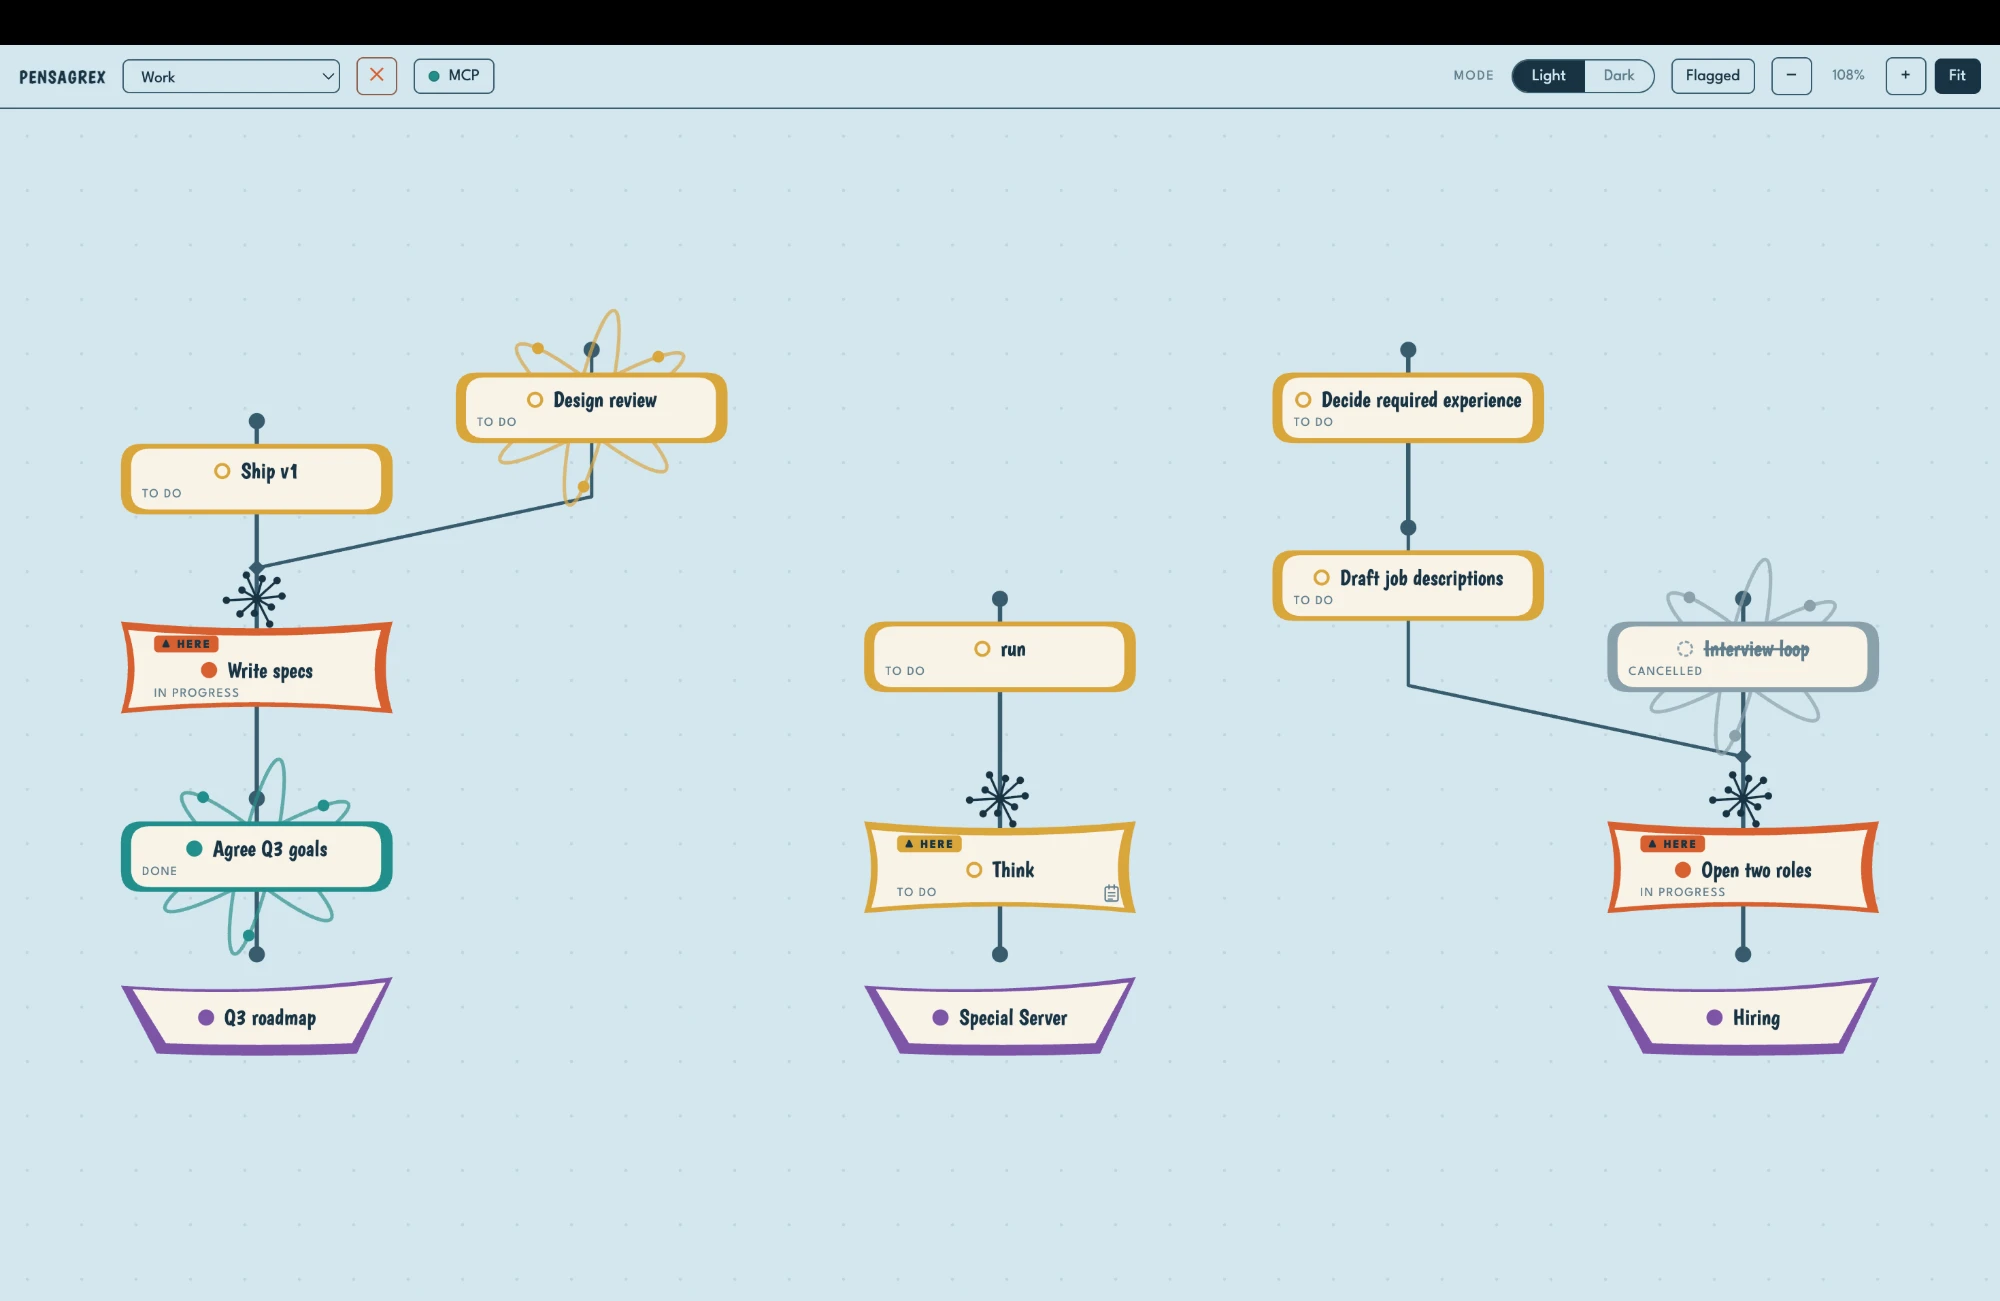
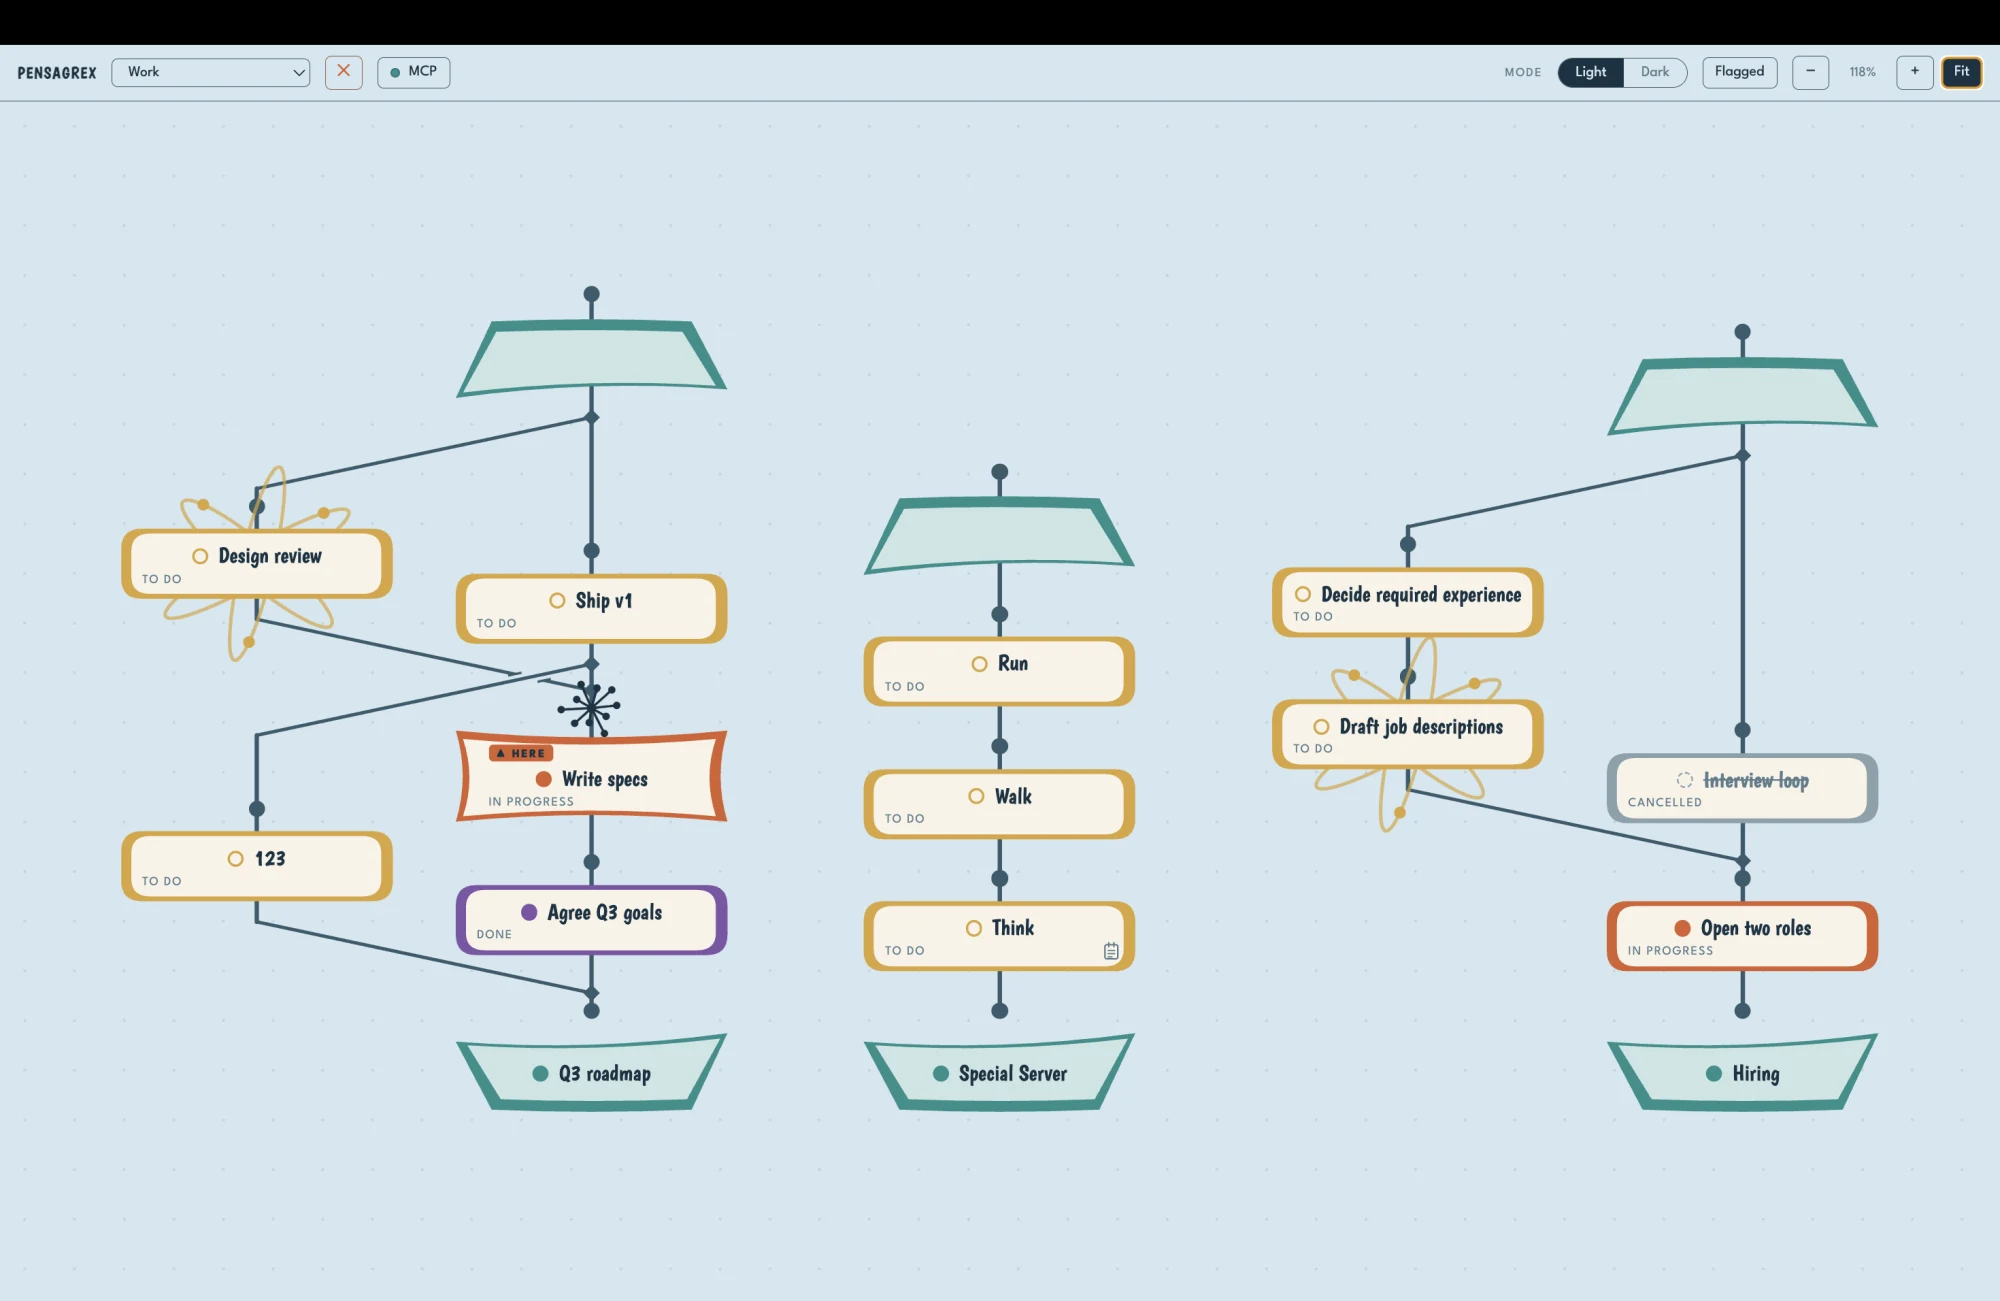
docs(site): a v3 screenshot, accents named by hue, and two lines of copy
The download page still showed a capture from the v2.1.0 cycle, in which branches
never rejoined a trunk and no plan closed. Gary took a fresh one from this branch, of
his own Work domain: three plans, the new palette, a cancelled task, two flagged nodes
and the "here" marks. Converted to webp at the page's own 2000 pixels, 74 KB, which is
where the old one sat.

The page's palette entries are renamed for what they are. It draws no map, so its
colours are accents rather than statuses: the four download tiles take one each, and the
teal carries links, the trio's key words and the MCP dot. They were vendored from the
app under the app's role names, which would now be actively misleading, since 3.2.1
exchanged what the app's teal and violet mean. Nothing on the page changes colour;
`--c-done` becomes `--accent-teal` and so on, and the three tokens the page never used
are dropped rather than kept in step for nothing.

Two lines of copy. The lede said "branching trees of tasks", a vocabulary schema 3
retired; it says plans. And the third card ended "Grep it, diff it, sync it, keep it",
which promises a sync PensaGrex does not have; it now says what the northstar's third
intent says, that there is no account, no cloud and no lock-in, and that the app owns
how the file is written and never one's ability to read it.

Checked rendered at 1400 and at 375, on both grounds.

diff --git a/site/index.html b/site/index.html
@@ -24,14 +24,19 @@ SPDX-License-Identifier: CC-BY-4.0
 :root[data-ground="azure"]{
   --ground:#d3e6ef; --panel:#f8f3e8; --ink:#173242; --line:#365b6c; --muted:#5f7d8b;
   --grid:rgba(23,50,66,.10);
-  --c-done:#1f8f8a; --c-prog:#d75f2e; --c-todo:#d9a53a; --c-cancel:#8aa0ab; --c-project:#7d54a6; --cursor:#d75f2e;
-  --burst-a:#1f8f8a; --burst-b:#d9a53a; --here-ink:var(--ink);
+  /* The page draws no map, so these are accents rather than the statuses they are in the
+     app: the four download tiles take one each, and the teal carries links, the key words in
+     the trio and the MCP dot. Named by hue for that reason. In 3.2.1 the app exchanged what
+     its teal and violet MEAN (teal now marks a plan's structure, violet a finished task);
+     nothing here changed colour, because nothing here carries a meaning to exchange. */
+  --accent-teal:#1f8f8a; --accent-orange:#d75f2e; --accent-amber:#d9a53a; --accent-violet:#7d54a6;
+  --here-ink:var(--ink);
 }
 :root[data-ground="navy"]{
   --ground:#0f2334; --panel:#1a3a54; --ink:#e8f1f6; --line:#6fb6c9; --muted:#93b3c2;
   --grid:rgba(111,182,201,.13);
-  --c-done:#37c2ba; --c-prog:#f27a44; --c-todo:#f0bd55; --c-cancel:#7590a0; --c-project:#bd93e6; --cursor:#f27a44;
-  --burst-a:#37c2ba; --burst-b:#f0bd55; --here-ink:var(--ground);
+  --accent-teal:#37c2ba; --accent-orange:#f27a44; --accent-amber:#f0bd55; --accent-violet:#bd93e6;
+  --here-ink:var(--ground);
 }
 
 *{box-sizing:border-box;}
@@ -42,7 +47,7 @@ body{
   background-size:40px 40px;
   min-height:100vh; line-height:1.55;
 }
-a{color:var(--c-done);}
+a{color:var(--accent-teal);}
 
 /* Top bar echoing the app's chrome. */
 .topbar{display:flex; align-items:center; justify-content:space-between; gap:12px;
@@ -56,7 +61,7 @@ a{color:var(--c-done);}
 .seg button.on{background:var(--ink); color:var(--ground);}
 .mcp-chip{display:inline-flex; align-items:center; gap:7px; font-size:12px; color:var(--muted);
   border:1px solid var(--line); border-radius:5px; padding:5px 10px;}
-.mcp-dot{width:8px; height:8px; border-radius:50%; background:var(--c-done);
+.mcp-dot{width:8px; height:8px; border-radius:50%; background:var(--accent-teal);
   box-shadow:inset 0 0 0 1px color-mix(in srgb, var(--ink) 25%, transparent);}
 
 .wrap{max-width:1040px; margin:0 auto; padding:0 20px;}
@@ -69,7 +74,7 @@ a{color:var(--c-done);}
 :root[data-ground="navy"] .hero-mark .icon-day{display:none;}
 :root[data-ground="navy"] .hero-mark .icon-night{display:block;}
 .wordmark{font-family:var(--font-display); font-size:clamp(46px,8vw,84px); line-height:.98; letter-spacing:.01em; margin:0 0 6px; color:var(--ink);}
-.tagline{font-family:var(--font-display); font-size:clamp(20px,3.2vw,30px); color:var(--c-prog); margin:0 0 16px; letter-spacing:.01em;}
+.tagline{font-family:var(--font-display); font-size:clamp(20px,3.2vw,30px); color:var(--accent-orange); margin:0 0 16px; letter-spacing:.01em;}
 .lede{font-size:16px; color:var(--ink); max-width:46ch; margin:0 0 26px;}
 .lede .muted{color:var(--muted);}
 
@@ -77,7 +82,7 @@ a{color:var(--c-done);}
 .dl-head{display:flex; align-items:baseline; gap:12px; margin:0 0 14px;}
 .dl-head h2{font-family:var(--font-display); font-weight:400; font-size:22px; letter-spacing:.02em; margin:0; color:var(--ink);}
 .verbadge{font-size:11px; letter-spacing:.1em; text-transform:uppercase; color:var(--here-ink);
-  background:var(--c-done); padding:2px 8px; border-radius:3px; font-weight:800;}
+  background:var(--accent-teal); padding:2px 8px; border-radius:3px; font-weight:800;}
 .tiles{display:grid; grid-template-columns:repeat(2,1fr); gap:12px;}
 .tile{display:flex; align-items:center; gap:11px; text-decoration:none; color:var(--ink);
   background:var(--panel); border:3px solid var(--accent); border-bottom-width:5px; border-radius:15px;
@@ -87,8 +92,8 @@ a{color:var(--c-done);}
 .tile .glyph{width:13px; height:13px; border-radius:50%; background:var(--accent); flex:none;}
 .tile .t-os{font-family:var(--font-display); font-size:18px; line-height:1.05; color:var(--ink);}
 .tile .t-kind{font-size:9px; letter-spacing:.1em; text-transform:uppercase; color:var(--muted); margin-top:2px;}
-.tile.mac{--accent:var(--c-done);} .tile.win{--accent:var(--c-prog);}
-.tile.lin-appimage{--accent:var(--c-todo);} .tile.lin-deb{--accent:var(--c-project);}
+.tile.mac{--accent:var(--accent-teal);} .tile.win{--accent:var(--accent-orange);}
+.tile.lin-appimage{--accent:var(--accent-amber);} .tile.lin-deb{--accent:var(--accent-violet);}
 .dl-note{font-size:12px; color:var(--muted); margin:12px 0 0;}
 .dl-note a{color:var(--muted); text-decoration:underline;}
 
@@ -105,7 +110,7 @@ a{color:var(--c-done);}
 .trio{display:grid; grid-template-columns:repeat(3,1fr); gap:20px; padding:8px 0 20px;}
 .pt h3{font-family:var(--font-display); font-weight:400; font-size:20px; letter-spacing:.02em; margin:0 0 6px; color:var(--ink);}
 .pt p{font-size:14px; color:var(--muted); margin:0;}
-.pt .k{color:var(--c-done);}
+.pt .k{color:var(--accent-teal);}
 
 /* Connect-to-Claude-Code section. */
 .connect{margin:8px 0 48px;}
@@ -114,7 +119,7 @@ a{color:var(--c-done);}
 .steps{list-style:none; margin:0; padding:0; display:flex; flex-direction:column; gap:18px;}
 .steps > li{display:flex; gap:14px; align-items:flex-start;}
 .step-n{flex:none; width:30px; height:30px; border-radius:50%; display:grid; place-items:center;
-  background:var(--c-done); color:var(--here-ink); font-family:var(--font-display); font-size:17px; line-height:1;}
+  background:var(--accent-teal); color:var(--here-ink); font-family:var(--font-display); font-size:17px; line-height:1;}
 .step-body{min-width:0;}
 .steps h3{font-family:var(--font-display); font-weight:400; font-size:18px; letter-spacing:.01em; margin:3px 0 3px; color:var(--ink);}
 .steps p{font-size:14px; color:var(--muted); margin:0 0 8px;}
@@ -127,7 +132,7 @@ a{color:var(--c-done);}
 .copy{flex:none; font:inherit; font-size:11px; letter-spacing:.06em; text-transform:uppercase; cursor:pointer;
   border:1px solid var(--line); background:var(--panel); color:var(--muted); border-radius:5px; padding:6px 11px;}
 .copy:hover{color:var(--ink); border-color:var(--ink);}
-.copy.done{color:var(--c-done); border-color:var(--c-done);}
+.copy.done{color:var(--accent-teal); border-color:var(--accent-teal);}
 
 footer{border-top:1px solid var(--line); padding:26px 0 40px; font-size:12.5px; color:var(--muted);}
 footer .wrap{display:flex; flex-wrap:wrap; justify-content:space-between; gap:10px;}
@@ -163,8 +168,8 @@ footer a{color:var(--muted); text-decoration:underline;}
     <div class="hero-copy">
       <h1 class="wordmark">PensaGrex</h1>
       <p class="tagline">Keep track of what you &amp; your AI are doing</p>
-      <p class="lede">Build branching trees of tasks in cooperation with your AI. You and your AI can
-        add and edit markdown notes for any task. Drag &amp; drop tasks and trees of tasks to wherever
+      <p class="lede">Build branching plans of tasks in cooperation with your AI. You and your AI can
+        add and edit markdown notes for any task. Drag &amp; drop tasks and whole plans to wherever
         you want. Flag the tasks you want your AI to focus on. Let your AI change tasks
         as it works on them, and you&rsquo;ll see it all happen, as it happens, in PensaGrex.</p>
 
@@ -208,7 +213,7 @@ footer a{color:var(--muted); text-decoration:underline;}
   <section class="trio">
     <div class="pt"><h3><span class="k">The structure</span> is the model.</h3><p>Projects, tasks, branches. A plan opens and closes, and work that runs alongside comes back: the shape is the work, not a decoration on a flat list.</p></div>
     <div class="pt"><h3><span class="k">Legible</span> at a glance.</h3><p>Status is colour, a fork is a junction, and the leaning marquee shows where you are before you read a word.</p></div>
-    <div class="pt"><h3><span class="k">Yours</span>, and local.</h3><p>One JSON file per domain, in a directory beside its markdown notes. Grep it, diff it, sync it, keep it.</p></div>
+    <div class="pt"><h3><span class="k">Yours</span>, and local.</h3><p>One JSON file per domain, in a directory beside its markdown notes. No account, no cloud, no lock-in: the app owns how the file is written, never your ability to read it.</p></div>
   </section>
 
   <section class="connect">
